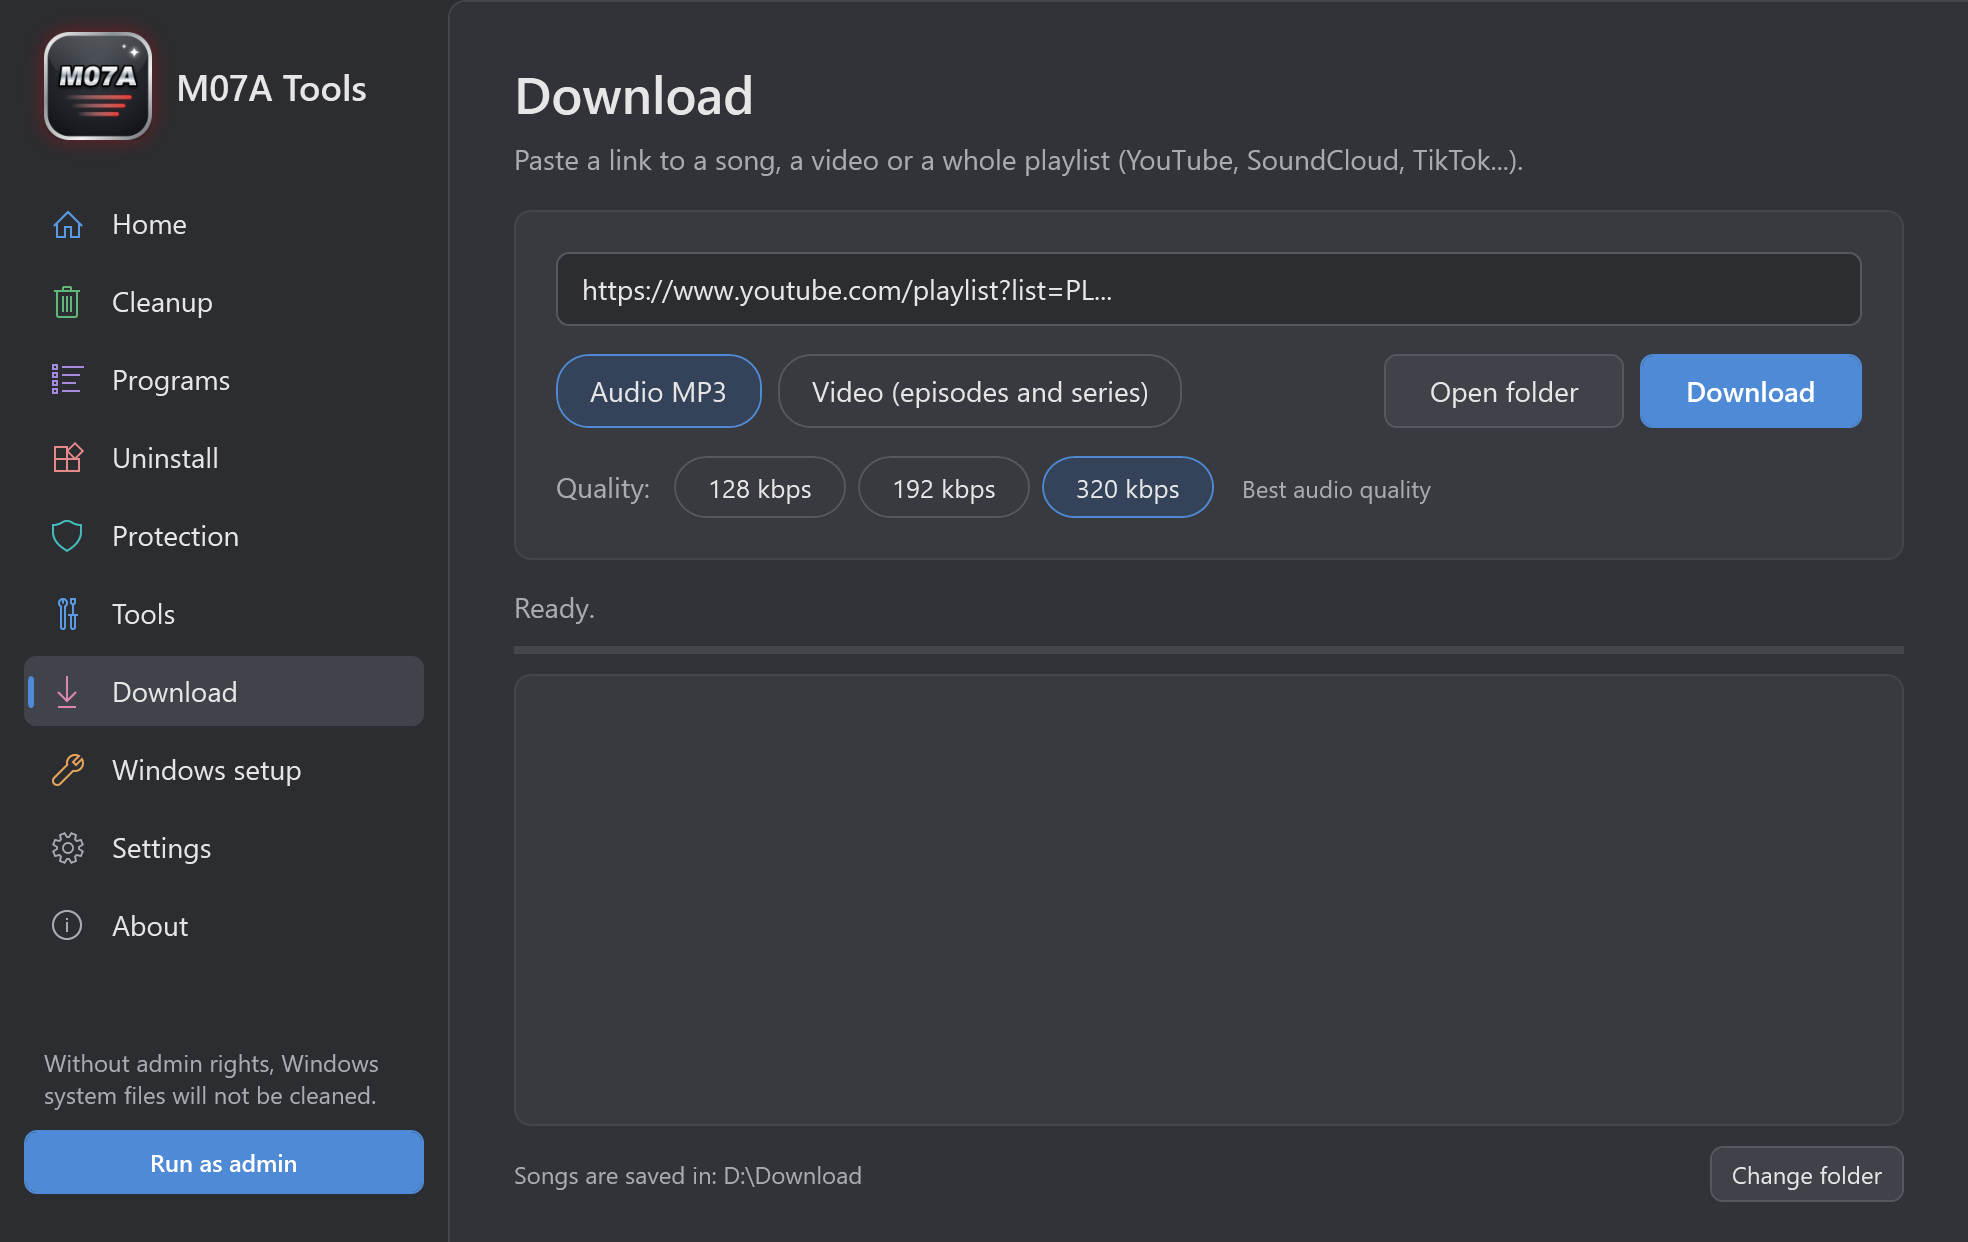
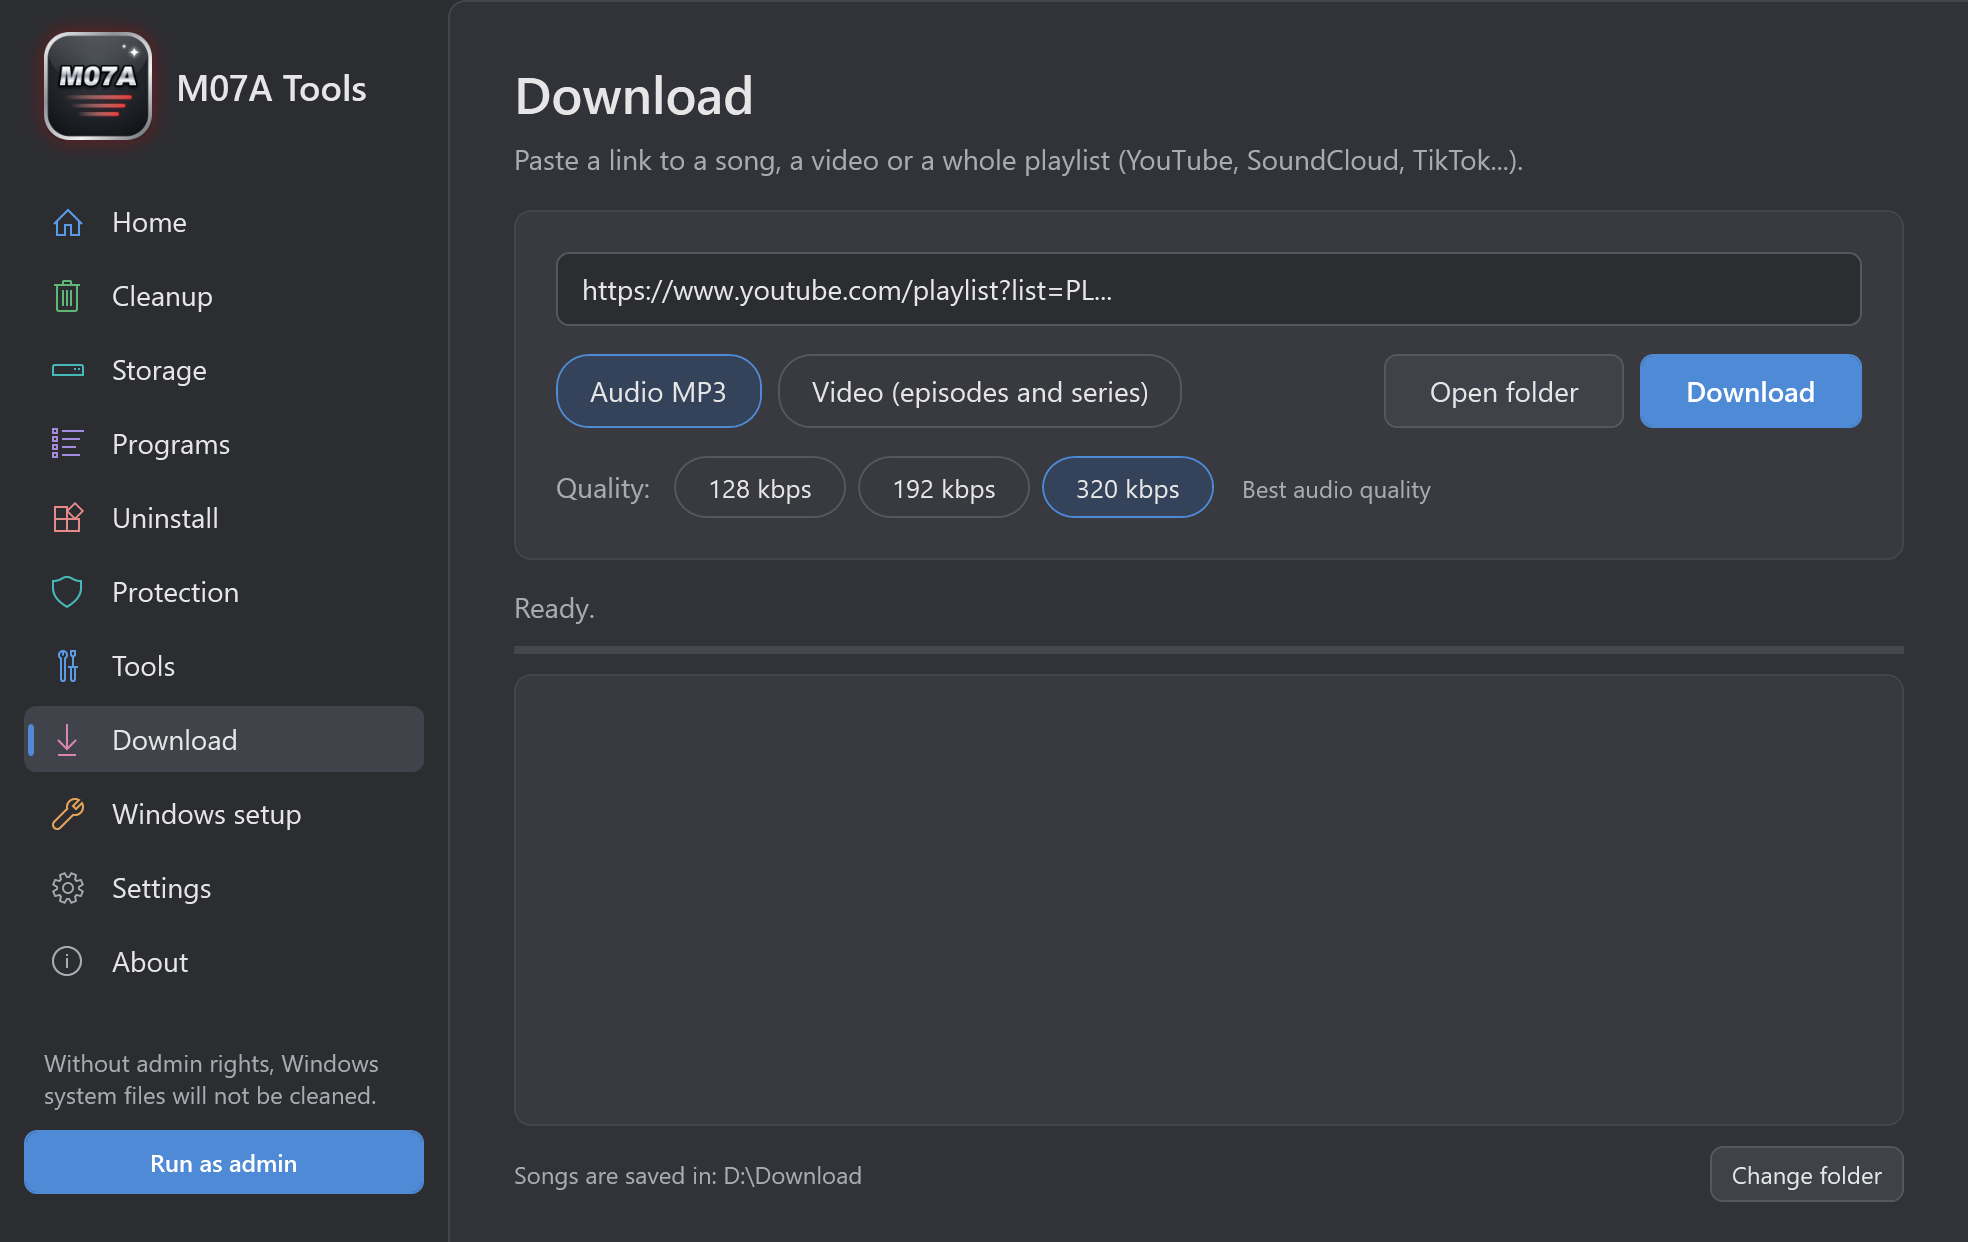
M07A Tools 3.1: storage page, new screenshots

Changed region(s): [[0.0, 0.2754, 0.217, 0.7955], [0.031, 0.2142, 0.093, 0.2448], [0.062, 0.153, 0.093, 0.1836]]

diff --git a/index.html b/index.html
@@ -81,7 +81,7 @@ section { padding-block: 64px; }
 .shot img { width: 100%; height: auto; }
 
 /* features */
-.grid { display: grid; grid-template-columns: repeat(4, 1fr); gap: 14px; }
+.grid { display: grid; grid-template-columns: repeat(3, 1fr); gap: 14px; }
 .feat { background: var(--card); border: 1px solid var(--line); border-radius: 12px; padding: 20px; min-width: 0; }
 .feat .ico { width: 40px; height: 40px; border-radius: 10px; display: grid; place-items: center; margin-bottom: 12px; }
 .feat .ico svg { width: 22px; height: 22px; }
@@ -161,7 +161,7 @@ body { background:
 .feat::before { content: ""; position: absolute; inset: 0 0 auto 0; height: 3px; background: var(--c); }
 .feat:hover { transform: translateY(-4px); border-color: var(--c); box-shadow: 0 14px 34px rgba(0, 0, 0, .35), 0 0 30px color-mix(in srgb, var(--c) 35%, transparent); }
 .grid .feat:nth-child(1) { --c: var(--c2); } .grid .feat:nth-child(2) { --c: var(--c5); } .grid .feat:nth-child(3) { --c: var(--c3); } .grid .feat:nth-child(4) { --c: var(--c7); }
-.grid .feat:nth-child(5) { --c: var(--c4); } .grid .feat:nth-child(6) { --c: #f0b35e; } .grid .feat:nth-child(7) { --c: var(--c1); } .grid .feat:nth-child(8) { --c: var(--c6); }
+.grid .feat:nth-child(5) { --c: var(--c4); } .grid .feat:nth-child(6) { --c: #f0b35e; } .grid .feat:nth-child(7) { --c: var(--c1); } .grid .feat:nth-child(8) { --c: var(--c6); } .grid .feat:nth-child(9) { --c: var(--c4); }
 .step { transition: transform .2s; } .step:hover { transform: translateY(-3px); }
 .steps .step:nth-child(1)::before { background: linear-gradient(135deg, #5b9be6, #3f6fd0); }
 .steps .step:nth-child(2)::before { background: linear-gradient(135deg, #a58be0, #7a5cd0); }
@@ -218,7 +218,7 @@ header.scrolled { background: rgba(28, 29, 33, .96); box-shadow: 0 8px 30px rgba
     <span class="spark" style="--x:9%;--y:16%;--s:22px;--d:4.5s">&#x2726;</span><span class="spark" style="--x:30%;--y:10%;--s:14px;--d:3.6s;--t:-1.2s">&#x2726;</span><span class="spark" style="--x:4%;--y:62%;--s:16px;--d:5s;--t:-2.4s">&#x2726;</span><span class="spark" style="--x:34%;--y:72%;--s:12px;--d:3.2s;--t:-.6s">&#x2726;</span><span class="spark" style="--x:20%;--y:88%;--s:18px;--d:4.8s;--t:-3.1s">&#x2726;</span>
     <div class="wrap">
       <div>
-        <span class="badge">مجاني بالكامل • الإصدار 3.0</span>
+        <span class="badge">مجاني بالكامل • الإصدار 3.1</span>
         <h1>جهازك <em>أسرع وأنظف</em> بنقرة واحدة</h1>
         <p class="lead">أداة مجانية لويندوز تنظّف الملفات المؤقتة وذاكرة الألعاب بأمان، وتسرّع الجهاز، وتدير التطبيقات، وتفحص الفيروسات، وتنزّل الفيديوهات والأغاني، في برنامج واحد بواجهة عربية وإنجليزية.</p>
         <div class="actions">
@@ -228,7 +228,7 @@ header.scrolled { background: rgba(28, 29, 33, .96); box-shadow: 0 8px 30px rgba
           </a>
           <a class="btn" href="#screens">شاهد الواجهة</a>
         </div>
-        <div class="meta"><span>ويندوز 10 و11</span><span>بالعربية والإنجليزية</span><span class="ltr">384 KB</span></div>
+        <div class="meta"><span>ويندوز 10 و11</span><span>بالعربية والإنجليزية</span><span class="ltr">390 KB</span></div>
       </div>
       <img class="logo-big" src="img/logo.png" alt="شعار M07A Tools" width="340" height="340">
     </div>
@@ -243,6 +243,7 @@ header.scrolled { background: rgba(28, 29, 33, .96); box-shadow: 0 8px 30px rgba
       <div class="tabs" role="tablist">
         <button class="tab" role="tab" aria-selected="true" data-shot="home">الرئيسية</button>
         <button class="tab" role="tab" aria-selected="false" data-shot="clean">التنظيف</button>
+        <button class="tab" role="tab" aria-selected="false" data-shot="storage">التخزين</button>
         <button class="tab" role="tab" aria-selected="false" data-shot="apps">إدارة التطبيقات</button>
         <button class="tab" role="tab" aria-selected="false" data-shot="uninstall">إلغاء التثبيت</button>
         <button class="tab" role="tab" aria-selected="false" data-shot="protection">الحماية</button>
@@ -269,6 +270,7 @@ header.scrolled { background: rgba(28, 29, 33, .96); box-shadow: 0 8px 30px rgba
         <div class="feat"><div class="ico" style="background:rgba(227,163,90,.15)"><svg viewBox="0 0 24 24" fill="none" stroke="#e3a35a" stroke-width="2" stroke-linecap="round" stroke-linejoin="round"><path d="M14.7 6.3a4 4 0 0 0-5.4 5.4L3 18l3 3 6.3-6.3a4 4 0 0 0 5.4-5.4l-2.5 2.5-2.4-.6-.6-2.4z"/></svg></div><h3>إعداد ويندوز جديد</h3><p>التعريفات الناقصة ومكونات الألعاب من مصادرها الرسمية.</p></div>
         <div class="feat"><div class="ico" style="background:rgba(91,155,230,.15)"><svg viewBox="0 0 24 24" fill="none" stroke="#5b9be6" stroke-width="2" stroke-linecap="round" stroke-linejoin="round"><path d="M12 8v4l3 2"/><circle cx="12" cy="12" r="9"/></svg></div><h3>أدوات الإصلاح</h3><p>نقطة استعادة، وإصلاح ملفات ويندوز والشبكة وشريط المهام، ووضع الطاقة.</p></div>
         <div class="feat"><div class="ico" style="background:rgba(219,134,174,.15)"><svg viewBox="0 0 24 24" fill="none" stroke="#db86ae" stroke-width="2" stroke-linecap="round" stroke-linejoin="round"><path d="M12 4v11M7 10l5 5 5-5M5 20h14"/></svg></div><h3>التنزيل</h3><p>فيديوهات وأغانٍ وقوائم تشغيل كاملة بالجودة التي تختارها.</p></div>
+        <div class="feat"><div class="ico" style="background:rgba(69,184,184,.15)"><svg viewBox="0 0 24 24" fill="none" stroke="#45b8b8" stroke-width="2" stroke-linecap="round" stroke-linejoin="round"><rect x="3" y="6" width="18" height="12" rx="2"/><path d="M7 14h.01M11 14h6"/></svg></div><h3>التخزين</h3><p>أكبر المجلدات والملفات على كل قرص، مع حذف آمن إلى سلة المحذوفات.</p></div>
       </div>
     </div>
   </section>
@@ -331,7 +333,7 @@ header.scrolled { background: rgba(28, 29, 33, .96); box-shadow: 0 8px 30px rgba
 <footer><div class="wrap">© <span id="yr">2026</span> M07A. جميع الحقوق محفوظة. يستخدم البرنامج أدوات مفتوحة المصدر: <a href="https://github.com/yt-dlp/yt-dlp">yt-dlp</a> و<a href="https://ffmpeg.org/">FFmpeg</a>.</div></footer>
 
 <script>
-  const names = { home: 'الرئيسية', clean: 'التنظيف', apps: 'إدارة التطبيقات', uninstall: 'إلغاء التثبيت', protection: 'الحماية', tools: 'الأدوات', download: 'التنزيل', settings: 'الإعدادات' };
+  const names = { home: 'الرئيسية', clean: 'التنظيف', storage: 'التخزين', apps: 'إدارة التطبيقات', uninstall: 'إلغاء التثبيت', protection: 'الحماية', tools: 'الأدوات', download: 'التنزيل', settings: 'الإعدادات' };
   const img = document.getElementById('shot');
   document.querySelectorAll('.tab').forEach(t => t.addEventListener('click', () => {
     document.querySelectorAll('.tab').forEach(o => o.setAttribute('aria-selected', o === t));
@@ -359,13 +361,13 @@ header.scrolled { background: rgba(28, 29, 33, .96); box-shadow: 0 8px 30px rgba
   }));
   // ---- Arabic / English: every Arabic text piece on the page has its English line here
   const en = {
-    'الواجهة': 'Screens', 'المزايا': 'Features', 'ابدأ الآن': 'Get started', 'مجاني بالكامل • الإصدار 3.0': 'Completely free • Version 3.0', 'طريقة التشغيل': 'How to run', 'الأسئلة الشائعة': 'FAQ', 'تنزيل': 'Download',
+    'الواجهة': 'Screens', 'المزايا': 'Features', 'ابدأ الآن': 'Get started', 'مجاني بالكامل • الإصدار 3.1': 'Completely free • Version 3.1', 'طريقة التشغيل': 'How to run', 'الأسئلة الشائعة': 'FAQ', 'تنزيل': 'Download',
     'جهازك': 'A', 'أسرع وأنظف': 'faster, cleaner', 'بنقرة واحدة': 'PC in one click',
     'أداة مجانية لويندوز تنظّف الملفات المؤقتة وذاكرة الألعاب بأمان، وتسرّع الجهاز، وتدير التطبيقات، وتفحص الفيروسات، وتنزّل الفيديوهات والأغاني، في برنامج واحد بواجهة عربية وإنجليزية.': 'A free Windows tool that safely cleans temporary files and game caches, speeds up your PC, manages apps, scans for viruses, and downloads videos and music, all in one program with an Arabic and English interface.',
     'تنزيل M07A Tools': 'Download M07A Tools', 'شاهد الواجهة': 'See the interface',
     'الإصدار 3.0': 'Version 3.0', 'ويندوز 10 و11': 'Windows 10 and 11', 'مجاني بالكامل': 'Completely free', 'بالعربية والإنجليزية': 'Arabic and English',
     'واجهة بسيطة وهادئة': 'A simple, calm interface', 'كل شيء في مكان واضح. اختر صفحة لمشاهدتها.': 'Everything has a clear place. Pick a page to see it.',
-    'الرئيسية': 'Home', 'التنظيف': 'Cleanup', 'إدارة التطبيقات': 'Programs', 'إلغاء التثبيت': 'Uninstall', 'الحماية': 'Protection', 'الأدوات': 'Tools', 'التنزيل': 'Download', 'الإعدادات': 'Settings',
+    'الرئيسية': 'Home', 'التنظيف': 'Cleanup', 'إدارة التطبيقات': 'Programs', 'إلغاء التثبيت': 'Uninstall', 'الحماية': 'Protection', 'الأدوات': 'Tools', 'التنزيل': 'Download', 'الإعدادات': 'Settings', 'التخزين': 'Storage', 'أكبر المجلدات والملفات على كل قرص، مع حذف آمن إلى سلة المحذوفات.': 'The largest folders and files on every drive, with safe deleting to the Recycle Bin.',
     'كل ما يحتاجه جهازك في برنامج واحد': 'Everything your PC needs in one program', 'بدل خمسة برامج مختلفة، صفحة لكل مهمة.': 'Instead of five different programs, one page for each job.',
     'تنظيف آمن': 'Safe cleanup', 'الملفات المؤقتة وذاكرة الألعاب والمتصفحات، مع فحص قبل الحذف.': 'Temporary files and game and browser caches, scanned before anything is deleted.',
     'تسريع الجهاز': 'Speed boost', 'تحرير الذاكرة يدويًا أو تلقائيًا، دون المساس باللعبة المفتوحة.': 'Frees memory manually or automatically, without touching the game you are playing.',
